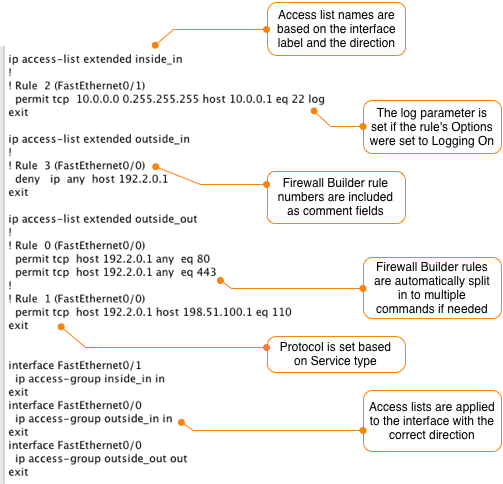
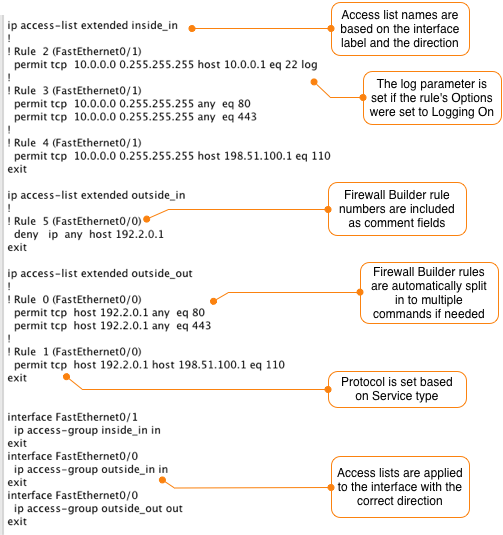
updated howto so with required additional inbound access lists

Changed region(s): [[0.0, 0.0, 1.0, 0.9917], [0.6859, 0.4959, 1.0, 0.6508]]

diff --git a/howtoforge/router_acl/cisco_acl_getting_started_pg2.html b/howtoforge/router_acl/cisco_acl_getting_started_pg2.html
@@ -55,9 +55,9 @@
               Internet address for the <b>HTTP</b> and <b>HTTPS</b> protocols </li>
               <li>Allow inside traffic (10.0.0.0/24) through the router to a specific
               IP address (198.51.100.1) for the <b>POP3</b> protocol.</li>
-              <li>Allow inside traffic (10.0.0.0/24) to the router's inside 
-              interface (FastEthernet1/0) for the <b>SSH</b> protocol.</li>
-              <li>Block all incoming traffic to the router's outside interface
+              <li>Allow inside traffic (10.0.0.0/24) to the router&#39;s inside 
+              interface (FastEthernet0/1) for the <b>SSH</b> protocol.</li>
+              <li>Block all incoming traffic to the router&#39;s outside interface
               (FastEthernet0/0).</li>
             </ul>
 
@@ -164,10 +164,10 @@
             </p>
 
             <p>
-            To access the objects you previously created, including the router, you need
-            to switch back to the <b>User library</b>. Do this by going to the drop down
-            menu at the top of the object tree panel and switch the selected library from
-            Standard to User.
+            <b>IMPORTANT!</b> To access the objects you previously created, including 
+            the router, you need to switch back to the <b>User library</b>. Do this by 
+            going to the drop down menu at the top of the object tree panel and switch 
+            the selected library from Standard to User.
             </p>
 
             <p>
@@ -211,7 +211,7 @@
             <p>
             To access the objects that we created earlier we need to switch back to the 
             User library. Click on the drop down menu that says Standard and select User 
-            from the list. Drag-and-drop the IP address object for the router's outside
+            from the list. Drag-and-drop the IP address object for the router&#39;s outside
             inteface from the tree on the left to the rule you just created placing it 
             in the Source section.
             </p>
@@ -283,7 +283,7 @@
             Modify this rule by dragging-and-dropping the <b>Internal Network</b> 
             object from the tree to the Source section of the newly created rule. 
             To restrict the rule to only allow traffic destined to the IP address 
-            of the router's FastEthernet1/0 interface, double-click on the
+            of the router&#39;s FastEthernet1/0 interface, double-click on the
             firewall object's FastEthernet1/0 interface to expand it.  Drag-and-
             drop the IP address of the interface to the Destination section of
             the rule.
@@ -322,7 +322,26 @@
             </center>
 
             <p>
-            Finally, we need to add a rule to the router's outside interface that 
+            Since we added a rule that will create an inbound access list on the
+            inside FastEthernet0/1 interface, we need to add rules that allow
+            the traffic for the first two rules inbound on inside interface.
+            Otherwise this traffic would be blocked coming in to the router and
+            it would never reach the outbound access list on the outside
+            interface. Follow the same steps from above, but set the interface to
+            the inside FastEthernet0/1 interface and set the Direction as
+            Inbound.
+            </p>
+
+            <p>
+            Your rules should now look like this:
+            </p>
+
+            <center>
+            <img src="five_rules.png" />
+            </center>
+
+            <p>
+            Finally, we need to add a rule to the router&#39;s outside interface that 
             blocks all traffic trying to access the router directly on its outside
             interface IP address.
             </p>
@@ -346,7 +365,7 @@
             </p>
 
             <center>
-            <img src="four_rules.png" />
+            <img src="six_rules.png" />
             </center>
 
             <p>

diff --git a/howtoforge/router_acl/cisco_acl_getting_started_pg1.html b/howtoforge/router_acl/cisco_acl_getting_started_pg1.html
@@ -85,7 +85,7 @@
               <li>Allow inside traffic (10.0.0.0/24) through the router to a specific
               IP address (198.51.100.1) for the <b>POP3</b> protocol.</li>
               <li>Allow inside traffic (10.0.0.0/24) to the router's inside 
-              interface (FastEthernet1/0) for the <b>SSH</b> protocol.</li>
+              interface (FastEthernet0/1) for the <b>SSH</b> protocol.</li>
               <li>Block all incoming traffic to the rotuer's outside interface 
               FastEthernet0/0.</li>
             </ul>

diff --git a/howtoforge/router_acl/cisco_acl_getting_started_pg3.html b/howtoforge/router_acl/cisco_acl_getting_started_pg3.html
@@ -44,11 +44,11 @@
 
         <p>
         For the following sections we are going to assume that the following
-        four rules defined for the router configuration shown above.
+        rules have been defined for the router configuration shown above.
         </p>
 
         <center>
-        <img src="four_rules.png" />
+        <img src="six_rules.png" />
         </center>
 
         <h2>Step 4: Compile and Install</h2>
